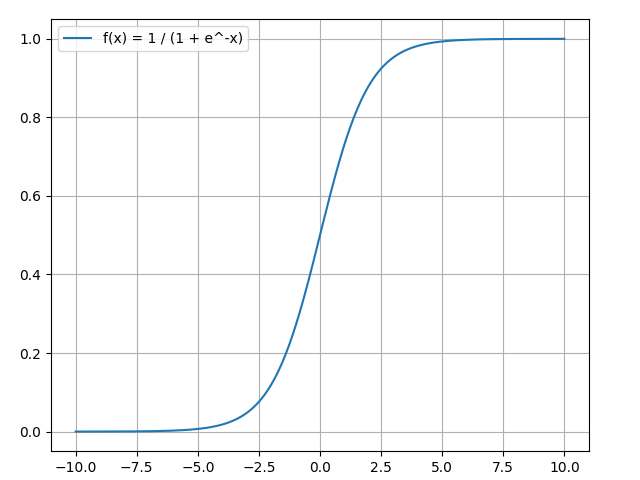
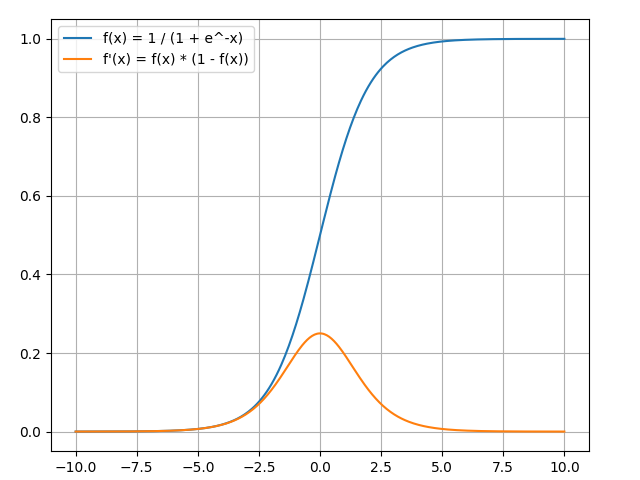
Sigmoid function

diff --git a/docs/activation_function.html b/docs/activation_function.html
@@ -31,9 +31,35 @@
                     \(\sigma(x) = \frac{1}{1 + e^{-x}} = \frac{e^x}{1 + e^x}\)
                 </div>
                 <p>File <a href="https://github.com/artinte/deep-learning/blob/develop/02_dnn/4_activation/sigmoid.py">sigmoid.py</a></p>
+
+                <pre><code>def sigmoid(x):
+    return 1 / (1 + numpy.exp(-x))
+
+
+def deriv_sigmoid(x):
+    return sigmoid(x) * (1 - sigmoid(x))
+
+x = numpy.linspace(-10, 10, 400)
+pyplot.plot(x, sigmoid(x), label="f(x) = 1 / (1 + e^-x)")
+pyplot.plot(x, deriv_sigmoid(x), label="f'(x) = f(x) * (1 - f(x))")
+pyplot.legend()
+pyplot.grid(True)
+pyplot.subplots_adjust(left=0.08, right=0.92, top=0.96, bottom=0.06)
+pyplot.show()
+
+print("The derivative at x = 2 is", numpy.round(deriv_sigmoid(2), 4))</code></pre>
+
                 <img src="res/02/sigmoid_func.png" alt="Sigmoid Function" width="600">
-                <p>Derivatives</p>
-                <img src="res/02/deriv_sigmoid.png" alt="Sigmoid Function" width="600">
+                <p style="text-align: center; color: #555555;">Figure 1 - Sigmoid Function</p>
+
+                <pre><samp>The derivative at x = 2 from scratch is 0.105</samp></pre>
+
+                <pre><code>x_val = torch.tensor([2.0], requires_grad=True)
+output = torch.sigmoid(x_val)
+output.backward()
+print("The derivative at x = 2 using PyTorch is", numpy.round(x_val.grad.item(), 4))</code></pre>
+
+                <pre><samp>The derivative at x = 2 using PyTorch is 0.105</samp></pre>
 
                 <h3 id="relu">2.4.2 ReLU Function</h3>
                 <p>One of the most popular and widely-used activation functions is <a href="https://docs.pytorch.org/docs/main/generated/torch.nn.ReLU.html#torch.nn.ReLU">ReLU</a> (rectified linear unit). As with other activation functions, it provides non-linearity to the model for better computation performance.</p>
@@ -43,7 +69,7 @@
                 </div>
                 <p>The ReLU function outputs the maximum between its input and zero, as shown by the graph. For positive inputs, the output of the function is equal to the input. For strictly negative inputs, the output of the function is equal to zero.</p>
                 <img src="res/02/relu_example.png" alt="ReLU Function" width="600">
-                <p style="text-align: center; color: #555555;">Figure 1 - ReLU Function</p>
+                <p style="text-align: center; color: #555555;">Figure 2 - ReLU Function</p>
                 
                 <pre><code># To see the gradients, we need to enable gradient tracking and perform a backward pass.
 input = torch.randn(10, requires_grad=True)

diff --git a/02_dnn/4_activation/sigmoid_demo.py b/02_dnn/4_activation/sigmoid_demo.py
@@ -1,0 +1,28 @@
+import numpy
+from matplotlib import pyplot
+import torch
+
+
+def sigmoid(x):
+    return 1 / (1 + numpy.exp(-x))
+
+
+def deriv_sigmoid(x):
+    return sigmoid(x) * (1 - sigmoid(x))
+
+
+x = numpy.linspace(-10, 10, 400)
+pyplot.plot(x, sigmoid(x), label="f(x) = 1 / (1 + e^-x)")
+pyplot.plot(x, deriv_sigmoid(x), label="f'(x) = f(x) * (1 - f(x))")
+pyplot.legend()
+pyplot.grid(True)
+pyplot.subplots_adjust(left=0.08, right=0.92, top=0.96, bottom=0.06)
+pyplot.show()
+
+print("The derivative at x = 2 from scratch is", numpy.round(deriv_sigmoid(2), 4))
+
+
+x_val = torch.tensor([2.0], requires_grad=True)
+output = torch.sigmoid(x_val)
+output.backward()
+print("The derivative at x = 2 using PyTorch is", numpy.round(x_val.grad.item(), 4))
